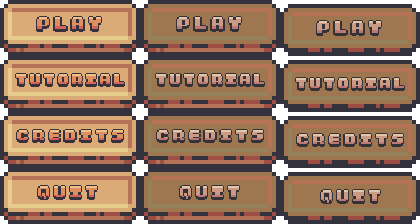
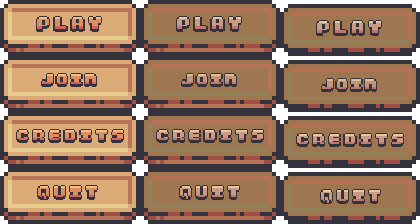
fix: button names removed credits

Changed region(s): [[0.031, 0.3125, 0.3095, 0.4062], [0.3714, 0.3125, 0.65, 0.4062], [0.681, 0.3438, 0.9905, 0.4375]]

diff --git a/src/gamestates/Menu.java b/src/gamestates/Menu.java
@@ -13,7 +13,7 @@ import javax.swing.*;
 
 public class Menu extends State implements StateMethods {
 
-	private MenuButton[] buttons = new MenuButton[4];
+	private MenuButton[] buttons = new MenuButton[3];
 	private BufferedImage background;
 	private int menuX, menuY, menuWidth, menuHeight;
 
@@ -35,8 +35,7 @@ public class Menu extends State implements StateMethods {
 	private void loadButtons() {
 		buttons[0] = new MenuButton(Game.GAME_WIDTH - 210, 335, 0, Gamestate.CREATE);
 		buttons[1] = new MenuButton(Game.GAME_WIDTH - 210, 425, 1, Gamestate.JOIN);
-		buttons[2] = new MenuButton(Game.GAME_WIDTH - 210, 515, 2, Gamestate.CREDITS);
-		buttons[3] = new MenuButton(Game.GAME_WIDTH - 210, 605, 3, Gamestate.QUIT);
+		buttons[2] = new MenuButton(Game.GAME_WIDTH - 210, 605, 3, Gamestate.QUIT);
 	}
 
 	@Override

diff --git a/src/main/GamePanel.java b/src/main/GamePanel.java
@@ -33,7 +33,8 @@ public class GamePanel extends JPanel {
 
 		// Chat Interface
 		chatInterface = new ChatOverlay();
-		add(chatInterface, BorderLayout.EAST);
+		add(chatInterface, BorderLayout.SOUTH);
+
 		// Join Interface
 		joinInterface = new JoinOverlay();
 		add(joinInterface, BorderLayout.SOUTH);
